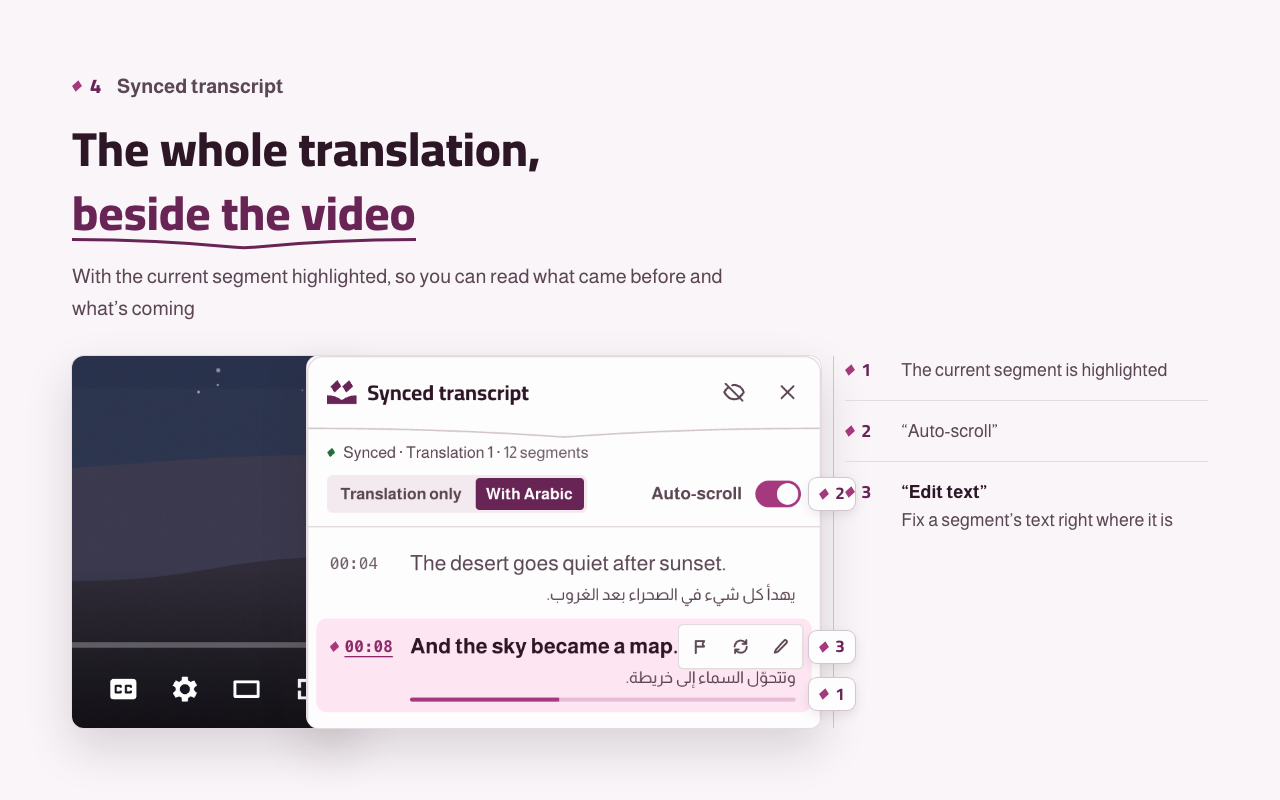
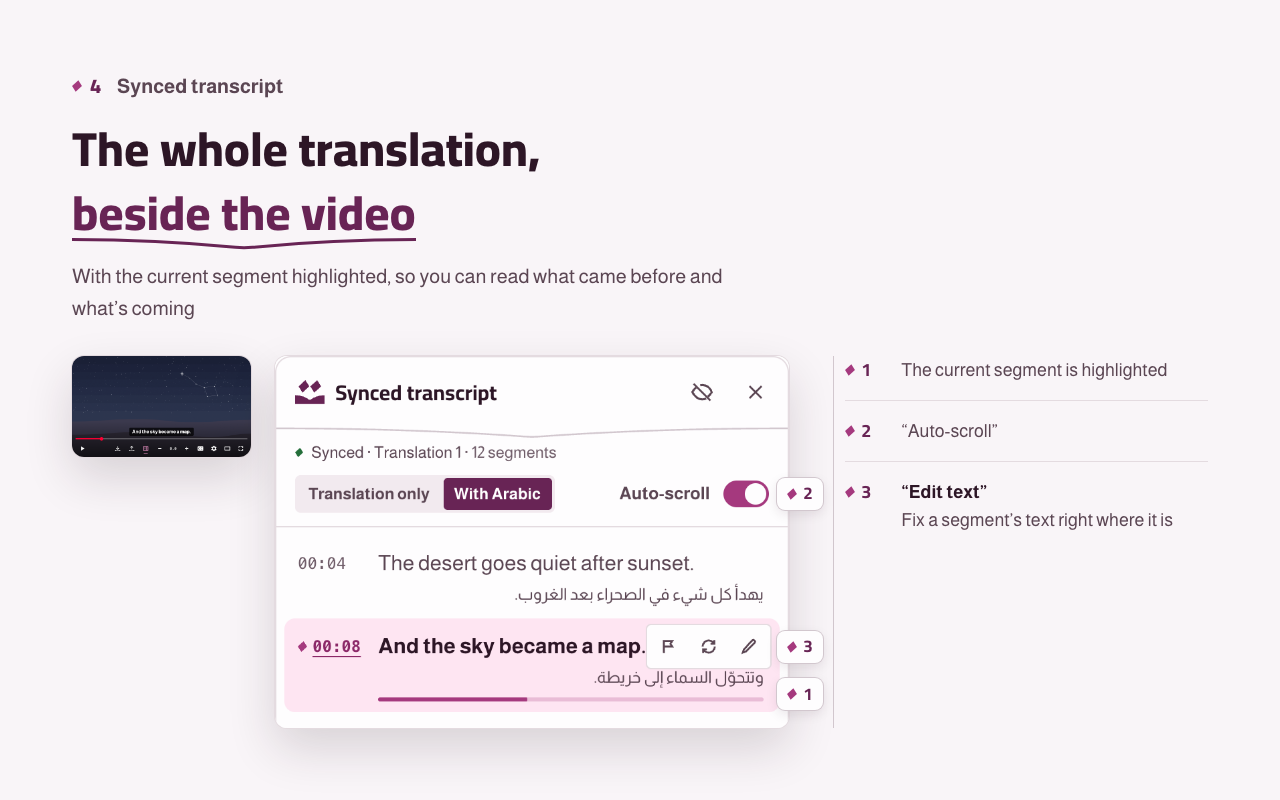
لقطات المتجر بعد التحقق المستقل لـ3.0.0 (ت٣-v4-texts-07 و08 و09، وإصلاح dcad6c95): أُعيد التقاط الواجهة كلها من حزمة متجر Chromium المبنية من e8593a55 على المشغّل المحلي في Chrome بلا نافذة، وأُعيد رسم عشر لقطات بالنظام المعتمد نفسه. 04-panel بمقاسيها ولغتيها: لوحة النص بأيقوناتها المقطوعة الأطراف م

Changed region(s): [[0.0312, 0.4375, 0.6562, 0.9375], [0.5312, 0.4688, 0.625, 0.5]]

diff --git a/docs/development.md b/docs/development.md
@@ -101,7 +101,7 @@ npm run package
 | المقاطع بين `<!-- tj:facts الاسم -->` و`<!-- /tj:facts الاسم -->` في `README.md` و`README.en.md` و`user-guide.md` (التثبيت والمتاجر والأذونات وملخص الخصوصية) | [`facts.json`](facts.json) (ح2) | `node scripts/docs/facts.mjs` (و`--check` في `npm run check`، ومعه مطابقة روابط المتاجر والحدود الدنيا وبريد الدعم في `site/` و`store/` بلا علامات، وبنية النسخ العربية والإنجليزية) |
 | `THIRD_PARTY_NOTICES.txt` | تراخيص الخطوط والأيقونات وأدوات البناء | `npm run notices` |
 | أيقونات الإضافة `src/icons` وأيقونتا المتجر `store/icons` وملفا الرمز `tools/brand/tarjuman-T*.svg` | مسارات الشعار في `src/ui/logo.js`، وأيقونتا 16 و32 المرسومتان بكسلًا في `tools/brand/pixel/` | `node tools/brand/icons.mjs` (و`--check`): ينسخ 16 و32 كما هما، ويولّد ملفي الرمز، ويُبقي البلاطات المرسومة (48 و128 وEdge) ما دامت ضمن حدّ التنعيم من رسمه للهندسة نفسها |
-| صور `.github/assets` ولقطات `store/screenshots/{chromium,firefox}/{ar,en}` و`store/promo` | مجلد العمل المحلي `tarjuman-images/` (غير متتبع) | في `tarjuman-images/_source/3.0.0/`، على نظام واحد (`store-system.ar.md` بجانبها): `capture2.mjs` و`compose3.mjs` للقطات المتجر، و`capture3.mjs` و`compose-readme.mjs` لصور `.github/assets`، و`compose.mjs` للبلاطتين. ثم تُنسخ النتائج إلى مواضعها. ولا رقم إصدار على أي صورة |
+| صور `.github/assets` ولقطات `store/screenshots/{chromium,firefox}/{ar,en}` و`store/promo` | مجلد العمل المحلي `tarjuman-images/` (غير متتبع) | في `tarjuman-images/_source/3.0.0/`، على نظام واحد (`store-system.ar.md` بجانبها): `capture2.mjs` و`compose3.mjs` للقطات المتجر، و`capture3.mjs` و`compose-readme.mjs` لصور `.github/assets`، و`compose.mjs` للبلاطتين. وإعادة رسم ST4 (اللوحة بجانب الفيديو، وعلامات بلا تراكب) في نسخته `tarjuman-images/_source/3.0.0-st4/`. ثم تُنسخ النتائج إلى مواضعها. ولا رقم إصدار على أي صورة |
 | نصوص صفحات الموقع | [`site`](site/README.md) | مولّد النصوص في مستودع الموقع |
 
 ## الإصدار والمتاجر

diff --git a/store/README.md b/store/README.md
@@ -333,6 +333,12 @@
   - معرض README يعرض اللقطات الخمس من `screenshots/chromium/{ar,en}/` نفسها، ومعها `gallery/{ar,en}/06-library.png`: صفحة المحفوظات بثلاث حلقات من السلسلة نفسها، ومفتاح صورها مفعّل كما يفعّله المستخدم.
 - **البلاطتان في `promo/`:** من رسم اللوحة I17 نفسه، بلا نص غير الشعار.
 
+**إعادة الرسم بعد التحقق المستقل (2026-11-14، ST4):** التُقطت الواجهة كلها من جديد من حزمة المتجر لـChromium المبنية من `e8593a55` (بصمة الأرشيف `54d844b1…`) بالطريقة نفسها، وأُعيد رسم عشر لقطات منها بنسخة المولّد `tarjuman-images/_source/3.0.0-st4/`:
+- `04-panel` بمقاسيها ولغتيها: لوحة النص بأيقوناتها الجديدة (أطراف مقطوعة وزوايا حادة)، وهي بجانب الفيديو بفجوة والمشغّل كاملًا بشريطه، كما في المنتج (`docs/product-spec.md` §٦.٦)، لا فوقه. والمشغّل فيها أصغر من اللوحة لتبقى اللوحة مقروءة.
+- `05-editor` بمقاسيها ولغتيها: علامة المقطع الناقص داخل صفه، وكانت تعبر الخط الشعري إلى الحاشية.
+- `02-workflow` الإنجليزية بمقاسيها: «4 steps, translation in your hands» و«It doesn’t translate or connect to any model; it prepares the file and instructions for you»، بمعنى العربية ونص الموقع، مختصرَين لسطر واحد.
+- وسائر الصور، ومنها صور `.github/assets`، طابقت لقطاتُ الرأس نفسه ما فيها (لا فرق فوق درجة لون واحدة)، فبقيت كما هي.
+
 ### تغطية حقول §٣
 
 كل حقل مطلوب في جدول T1 وماده. و«سلطان» ما يُنجز بيده عند النشر، و«T7» ما ينتظر نشر الصفحات. وترتيب ذلك يوم النشر في [`docs/release-day.md`](../docs/release-day.md).

diff --git a/README.en.md b/README.en.md
@@ -38,11 +38,11 @@ There's no built-in model, no API key, no account, no translation server, and no
 <table>
   <tr>
     <td width="50%" valign="top"><img src="store/screenshots/chromium/en/01-overlay.png" alt="Your translation over the video: the English line over the Arabic original, the Display mode control, and Tarjuman's buttons on the player bar"></td>
-    <td width="50%" valign="top"><img src="store/screenshots/chromium/en/02-workflow.png" alt="The translation, in your hands: in Tarjuman you download the original and copy the instructions; outside it, the model you choose translates"></td>
+    <td width="50%" valign="top"><img src="store/screenshots/chromium/en/02-workflow.png" alt="Four steps, with the translation in your hands: in Tarjuman you download the original and copy the instructions; outside it, the model you choose translates"></td>
   </tr>
   <tr>
     <td width="50%" valign="top"><img src="store/screenshots/chromium/en/03-timing.png" alt="Sync by a sentence you hear: the timing menu over the player, and the − and + buttons on its bar"></td>
-    <td width="50%" valign="top"><img src="store/screenshots/chromium/en/04-panel.png" alt="The whole translation beside the video: the synced transcript panel with the current segment highlighted"></td>
+    <td width="50%" valign="top"><img src="store/screenshots/chromium/en/04-panel.png" alt="The whole translation beside the video: the synced transcript panel next to the player, with the current segment highlighted"></td>
   </tr>
   <tr>
     <td width="50%" valign="top"><img src="store/screenshots/chromium/en/05-editor.png" alt="Compares your file with the original: editor rows with a missing segment"></td>

diff --git a/README.md b/README.md
@@ -56,7 +56,7 @@
   </tr>
   <tr>
     <td width="50%" valign="top"><img src="store/screenshots/chromium/ar/03-timing.png" alt="مزامنة بجملة تسمعها: قائمة توقيت الترجمة فوق المشغّل، وزرّا − و+ في شريطه"></td>
-    <td width="50%" valign="top"><img src="store/screenshots/chromium/ar/04-panel.png" alt="الترجمة كلها بجانب الفيديو: لوحة النص المتزامن والمقطع الحالي مميز"></td>
+    <td width="50%" valign="top"><img src="store/screenshots/chromium/ar/04-panel.png" alt="الترجمة كلها بجانب الفيديو: لوحة النص المتزامن بجانب المشغّل، والمقطع الحالي مميز"></td>
   </tr>
   <tr>
     <td width="50%" valign="top"><img src="store/screenshots/chromium/ar/05-editor.png" alt="يقارن ملفك بالأصل: صفوف المحرّر وفيها مقطع ناقص"></td>
